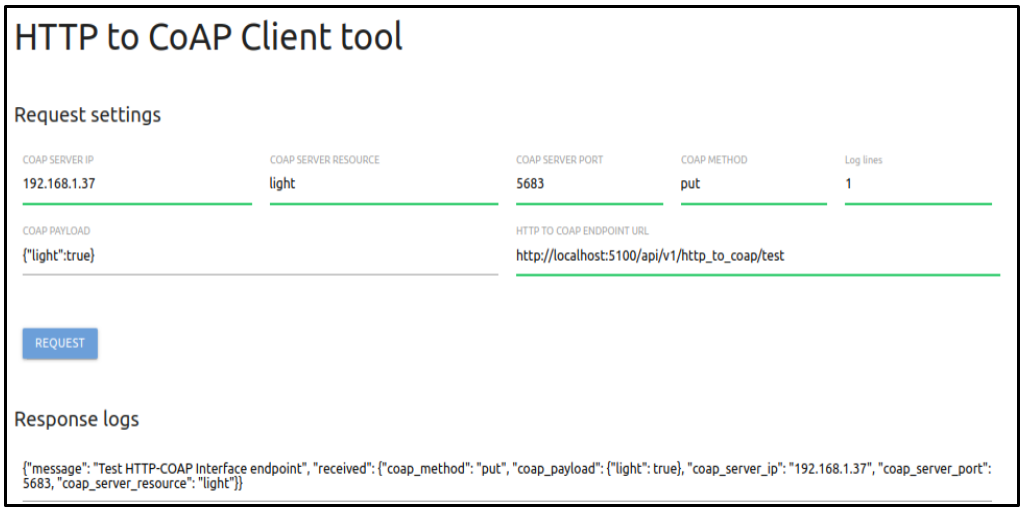
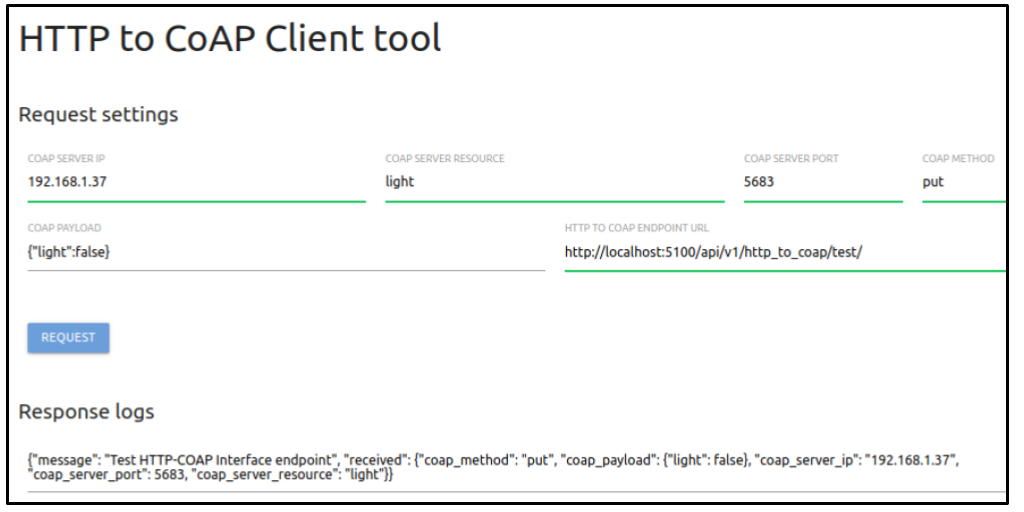
Hide log lines Web cliend field and fix Web Client Test Running image

Changed region(s): [[0.0, 0.0, 1.0, 1.0]]

diff --git a/http-to-coap-web-client/index.html b/http-to-coap-web-client/index.html
@@ -35,23 +35,23 @@
             <div class="row">
                 <form class="col s12">
                     <div class="row">
-                        <div class="input-field col l3 m6 s6">
-                            <input placeholder="IP for CoAP server" id="coap_server_ip" type="text" class="validate">
+                        <div class="input-field col l4 m6 s6">
+                            <input placeholder="localhost" id="coap_server_ip" type="text" class="validate">
                             <label for="coap_server_ip">COAP SERVER IP</label>
                         </div>
-                        <div class="input-field col l3 m6 s6">
+                        <div class="input-field col l4 m6 s6">
                             <input placeholder=".well-known/core" id="coap_server_resource" type="text" class="validate">
                             <label for="coap_server_resource">COAP SERVER RESOURCE</label>
                         </div>
-                        <div class="input-field col l2 s4 m4">
+                        <div class="input-field col l2 s6 m6">
                             <input placeholder="5683" id="coap_server_port" type="text" class="validate">
                             <label for="coap_server_port">COAP SERVER PORT</label>
                         </div>
-                        <div class="input-field col l2 s4 m4">
+                        <div class="input-field col l2 s6 m6">
                             <input placeholder="get" id="coap_method" type="text" class="validate">
                             <label for="coap_method">COAP METHOD</label>
                         </div>
-                        <div class="input-field col l2 s4 m4">
+                        <div class="input-field col l2 s4 m4 hide">
                             <input placeholder="1" id="log_lines" type="text" class="validate">
                             <label for="log_lines">Log lines</label>
                         </div>
